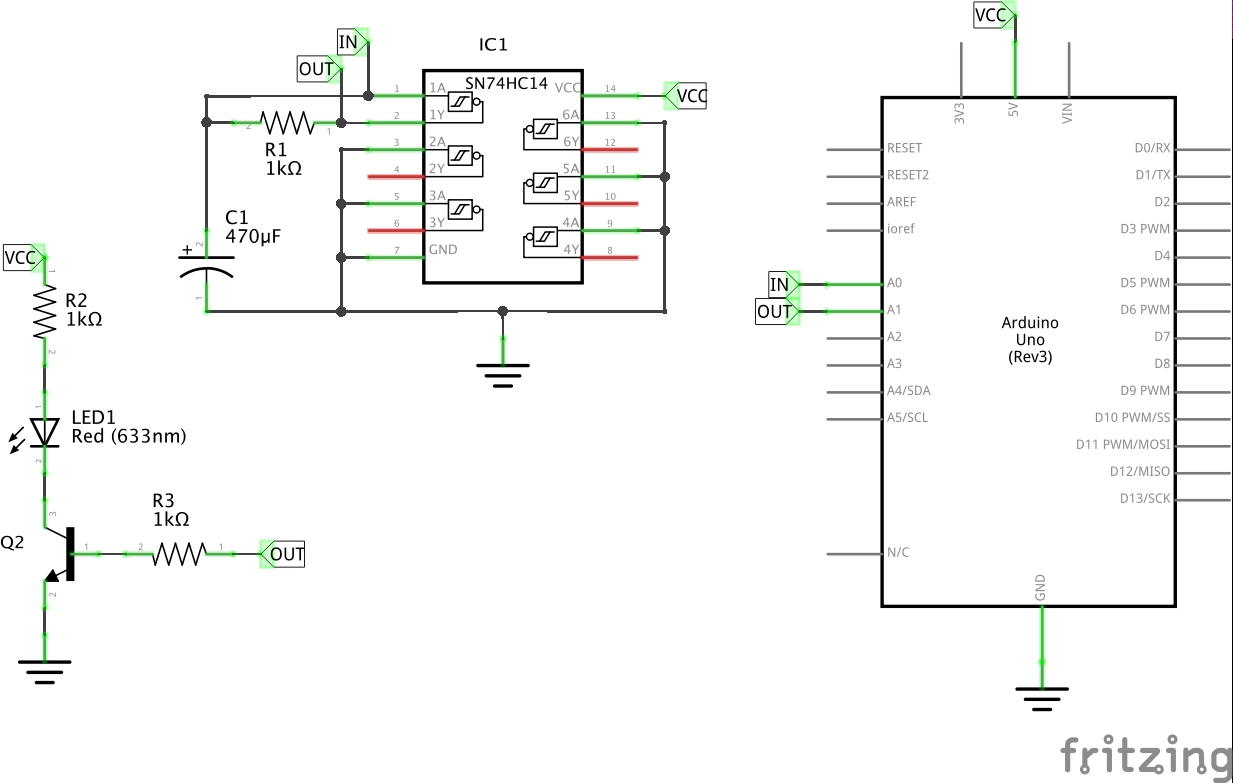
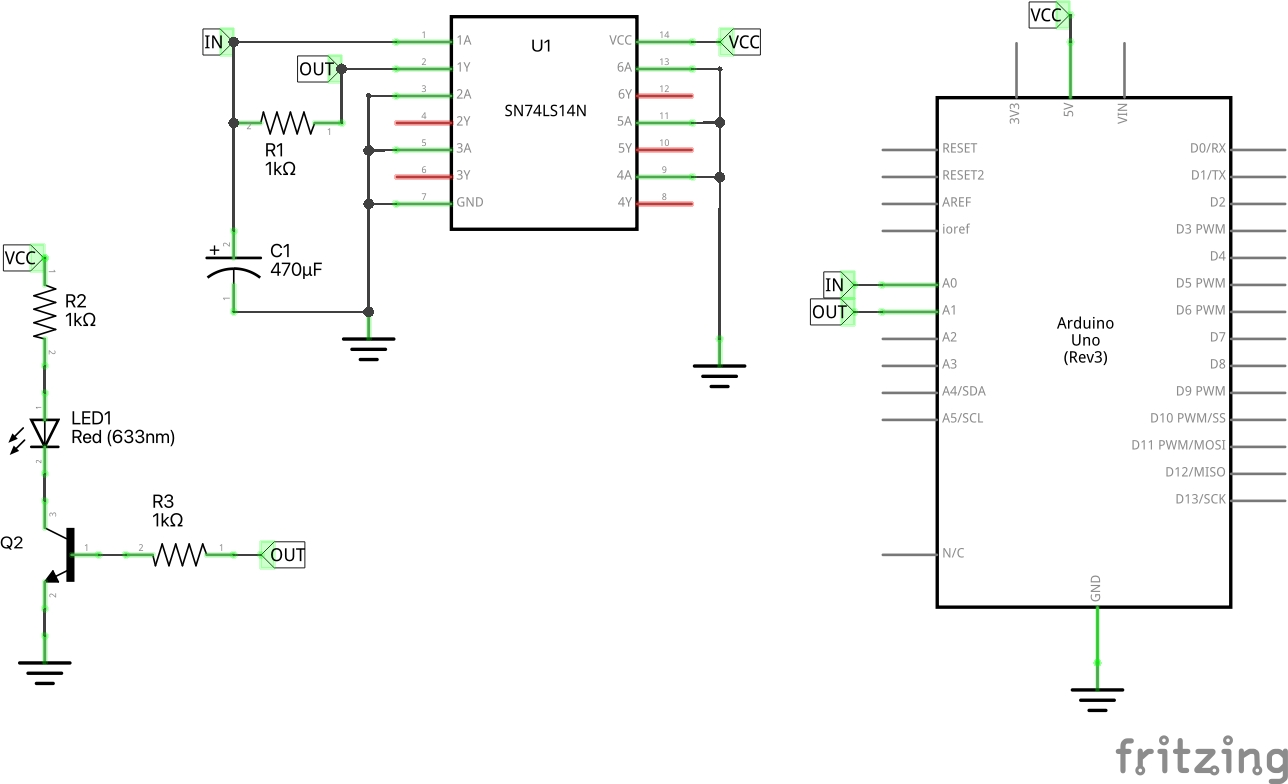
[74LS14/SchmittOscillator] add project (#122)

diff --git a/Electronics101/74LS14/SchmittOscillator/README.md b/Electronics101/74LS14/SchmittOscillator/README.md
@@ -1,0 +1,103 @@
+# #582 74LS14 Schmitt Oscillator
+
+About the 74LS14 Hex Inverter with Schmitt Trigger Inputs, and testing its behaviour as a relaxation oscillator square wave generator.
+
+![Build](./assets/SchmittOscillator_build.jpg?raw=true)
+
+## Notes
+
+The [74LS14](https://www.futurlec.com/74LS/74LS14.shtml) is a popular hex inverter IC (integrated circuit) that belongs to the 74LS (low-power Schottky TTL) series of logic chips. It contains six independent Schmitt-trigger inverters, each of which takes an input signal and outputs its logical inverse. The Schmitt-trigger design provides hysteresis, making the 74LS14 particularly effective at cleaning up noisy signals and ensuring sharp transitions between logic states. It operates with a standard 5V power supply and is widely used in digital circuits for signal conditioning, waveform shaping, and debouncing switches. The 74LS14 is known for its reliability, ease of use, and compatibility with other TTL (Transistor-Transistor Logic) devices.
+
+Key Specifications:
+
+* Supply Voltage: 5.00 V (4.75 V to 5.25 V)
+* Input Hysteresis: 0.8V
+* HIGH output voltage: 3.4V typical (2.7V min)
+* LOW output voltage: 0.35V typical (0.5V max)
+* Propagation delay LOW-HIGH: 5-25ns
+* Propagation delay HIGH-LOW: 5-33ns
+
+### Test Circuit: The Schmitt Oscillator
+
+> Note: I've covered this circuit before in [LEAP#022 Square Wave - Schmitt Oscillator](https://leap.tardate.com/electronics101/oscillators/schmittoscillator/), but this is an updated and more detailed treatment.
+
+An inverter Schmitt oscillator circuit is a simple and widely used configuration for generating square wave signals, typically built using a Schmitt-trigger inverter (like the 74LS14) along with a resistor and capacitor. The circuit works by exploiting the hysteresis property of the Schmitt-trigger, which causes the inverter to switch states at different voltage thresholds. The capacitor charges and discharges through the resistor, creating a time delay that determines the oscillation frequency. When the capacitor voltage reaches the upper threshold, the inverter switches to a low output, causing the capacitor to discharge; when it falls to the lower threshold, the inverter switches back to a high output, repeating the cycle. This results in a continuous square wave output whose frequency is determined by the RC time constant (`f = 1 / (1.2 * R * C)`). The circuit is valued for its simplicity, reliability, and ability to produce stable oscillations, making it useful in applications like clock generation, tone generation, and timing circuits.
+
+### Circuit Design
+
+One inverter unit of the 74LS14 Hex Inverter with Schmitt Trigger Inputs is used as an oscillator.
+The input and output levels are read with analog input pins, and the values is echoed to the Arduino serial port for plotting.
+
+All unused outputs on the 74LS14 are left open circuit. Unused inputs are grounded, as is recommended to avoid unstable operation.
+
+A second inverter unit is chained on the output and used to drive an indicator LED via an NFET switch.
+
+For R1=1kΩ, and C1=100nF, the frequency of the oscillation is calculated as
+[8333 Hz](https://www.wolframalpha.com/input?i=1+%2F+%281.2+*+1k%CE%A9+*+100nF%29):
+
+    f = 1 / (1.2 * R * C)
+    f = 1 / (1.2 * 1kΩ * 100nF)
+    f = 8333 Hz
+
+![bb](./assets/SchmittOscillator_bb.jpg?raw=true)
+
+![schematic](./assets/SchmittOscillator_schematic.jpg?raw=true)
+
+![bb_build](./assets/SchmittOscillator_bb_build.jpg?raw=true)
+
+### Test Results
+
+Schmitt inverters produce a non-symmetrical waveform. The duty cycle is about 33%, and levels not very stable.
+This is particular to the LS (low-power Schottky) version of the 7414.
+
+To oscillate at all, R values are recommended to be kept between 100Ω and 1kΩ, and C between 1nF and 1000µF.
+In practice on my bench, I was able to push the limits a bit:
+
+* R=2.2kΩ works, fails with R=4.7kΩ (C=100nF)
+* still working with C=20pF (R=1kΩ), though the waveform is quite distorted
+* still working with C=2200µF (R=1kΩ), with a good waveform
+
+Note: in these tests, capacitors >=1µF are electrolytic, and < 1µF are monolithic ceramic.
+
+| R1    | C1     | Calc Frequency | Measured Frequency | +duty% | Waveform Quality |
+|-------|--------|----------------|--------------------|--------|------------------|
+| 220Ω  | 10nF   |                |          306.7 kHz | 29.4%  | square but significant ringing |
+| 220Ω  | 100nF  |                |           34.3 kHz | 28.8%  | ok, but a rising top |
+| 1kΩ   | 20pF   |                |          12.50 MHz | 30.9%  | very poor        |
+| 1kΩ   | 100pF  |                |           4.85 MHz | 26.1%  | poor |
+| 1kΩ   | 330pF  |                |           2.04 MHz | 24.6%  | poor |
+| 1kΩ   | 1nF    |                |          788.0 kHz | 25.0%  | square but significant ringing |
+| 1kΩ   | 10nF   |                |          69.83 kHz | 25.1%  | square, a little ringing |
+| 1kΩ   | 33nF   |                |          20.42 kHz | 25.4%  | square, a little ringing|
+| 1kΩ   | 100nF  |                |           7.61 kHz | 25.4%  | good, square |
+| 1kΩ   | 330nF  |                |           2.18 kHz | 25.3%  | good, square |
+| 1kΩ   | 1µF    |                |            980 Hz  | 23.6%  | good, square |
+| 1kΩ   | 10µF   |                |             63 Hz  | 25.1%  | good, square |
+| 1kΩ   | 100µF  |                |            6.6 Hz  | 25.3%  | good, square |
+| 1kΩ   | 1000µF |                |            0.8 Hz  | 25.1%  | good, square |
+| 1kΩ   | 2200µF |                |            0.3 Hz  | 25.6%  | good, square |
+| 2.2kΩ | 10nF   |                |          26.98 kHz | 18.9%  | square, a little ringing |
+| 2.2kΩ | 100nF  |                |           2.92 kHz | 29.1%  | good, square|
+
+### Some sample traces
+
+Very nice wave at 1kΩ and C=100nF:
+
+![scope_1k_100n](./assets/scope_1k_100n.gif)
+
+Getting distorted at 1kΩ and C=1nF:
+
+![scope_1k_1n](./assets/scope_1k_1n.gif)
+
+220Ω and C=10nF:
+
+![scope_220_10n](./assets/scope_220_10n.gif)
+
+## Credits and References
+
+* [74LS14 Datasheet](https://www.futurlec.com/74LS/74LS14.shtml)
+* [Schmitt Trigger Oscillators?!](https://forum.arduino.cc/t/schmitt-trigger-oscillators/144197) in the Arduino forums
+* [Schmitt Waveform Generators](https://www.electronics-tutorials.ws/waveforms/generators.html) - very informative; compares LS14 with alternatives for waveform generation.
+* [Circuit Properties of LS and HC Digital Logic](https://mysite.du.edu/~etuttle/electron/elect13.htm)
+* [Schmitt Trigger Oscillator](https://electronics-course.com/schmitt-trigger-oscillator)
+* [LEAP#022 Square Wave - Schmitt Oscillator](https://leap.tardate.com/electronics101/oscillators/schmittoscillator/)

diff --git a/Electronics101/Oscillators/SchmittOscillator/README.md b/Electronics101/Oscillators/SchmittOscillator/README.md
@@ -13,7 +13,8 @@ The input and output levels are read with analog input pins, and the values is e
 
 All unused outputs on the 74LS14 are left open circuit. Unused inputs are grounded, as is recommended to avoid unstable operation.
 
-The frequency of the oscillation is calculated as:
+The frequency of the oscillation is calculated as
+[1.77 Hz](https://www.wolframalpha.com/input?i=1+%2F+%281.2+*+1k%CE%A9+*+470%C2%B5F%29):
 
     f = 1 / (1.2 * R * C)
     f = 1 / (1.2 * 1kΩ * 470µF)
@@ -34,10 +35,10 @@ To oscillate at all, R values must be kept between 100Ω and 1kΩ, and C between
 
 Apparently 74HC14 has a duty cycle more like 50% and can handle higher values of R (but I don't have one handy to test).
 
-See [Schmitt Waveform Generators](http://www.electronics-tutorials.ws/waveforms/generators.html) for more, and
-[Circuit Properties of LS and HC Digital Logic](http://mysite.du.edu/~etuttle/electron/elect13.htm) for comparison of LS and HC characteristics.
+See [Schmitt Waveform Generators](https://www.electronics-tutorials.ws/waveforms/generators.html) for more, and
+[Circuit Properties of LS and HC Digital Logic](https://mysite.du.edu/~etuttle/electron/elect13.htm) for comparison of LS and HC characteristics.
 
-See the [RingOscillator](../RingOscillator) project for a related application of inverters in waveform generation.
+See the [RingOscillator](https://leap.tardate.com/electronics101/oscillators/ringoscillator/ ) project for a related application of inverters in waveform generation.
 
 ### Construction
 
@@ -50,7 +51,7 @@ See the [RingOscillator](../RingOscillator) project for a related application of
 ## Credits and References
 
 * [74LS14 Datasheet](https://www.futurlec.com/74LS/74LS14.shtml)
-* [Schmitt Trigger Oscillators?!](http://forum.arduino.cc/index.php?topic=147691.0) in the Arduino forums
-* [Schmitt Waveform Generators](http://www.electronics-tutorials.ws/waveforms/generators.html) - very informative; compares LS14 with alternatives for waveform generation.
-* [Circuit Properties of LS and HC Digital Logic](http://mysite.du.edu/~etuttle/electron/elect13.htm)
-* [Schmitt Trigger Oscillator](http://electronics-course.com/schmitt-trigger-oscillator)
+* [Schmitt Trigger Oscillators?!](https://forum.arduino.cc/t/schmitt-trigger-oscillators/144197) in the Arduino forums
+* [Schmitt Waveform Generators](https://www.electronics-tutorials.ws/waveforms/generators.html) - very informative; compares LS14 with alternatives for waveform generation.
+* [Circuit Properties of LS and HC Digital Logic](https://mysite.du.edu/~etuttle/electron/elect13.htm)
+* [Schmitt Trigger Oscillator](https://electronics-course.com/schmitt-trigger-oscillator)

diff --git a/README.md b/README.md
@@ -1,4 +1,4 @@
-# 653 Little Electronic Art Projects
+# 654 Little Electronic Art Projects
 
 > Latest addition:sparkles: [Inverter-based Push Button Latch](./Electronics101/CD4069/PushButtonLatch) - A latching pushbutton circuit using a CMOS inverter (CD4069)
 
